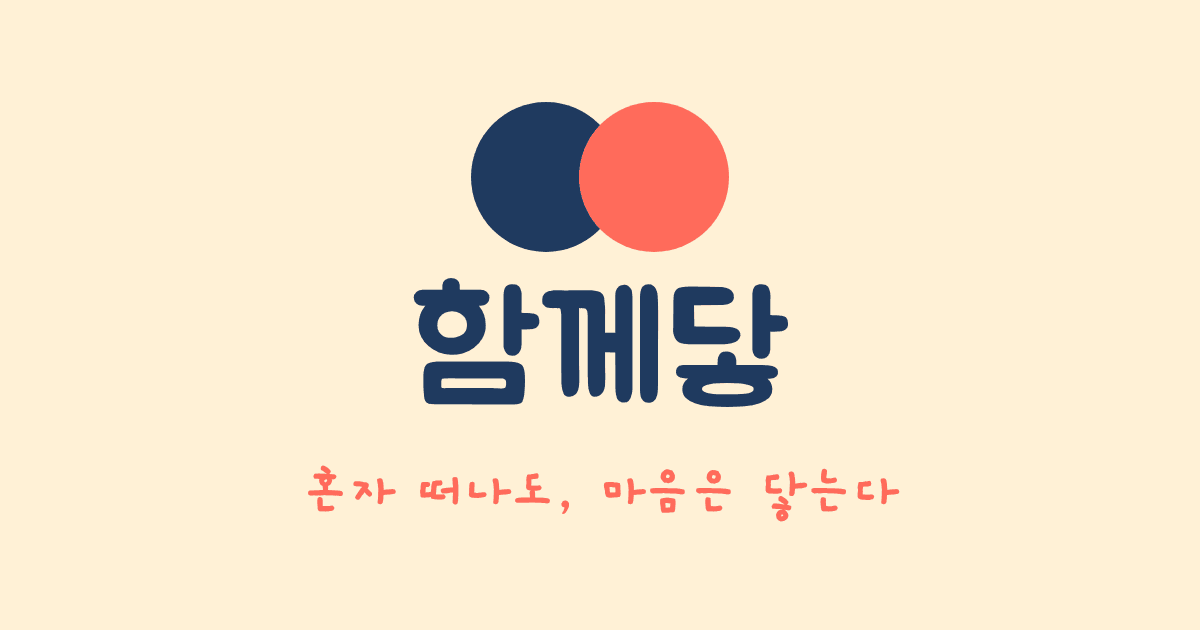
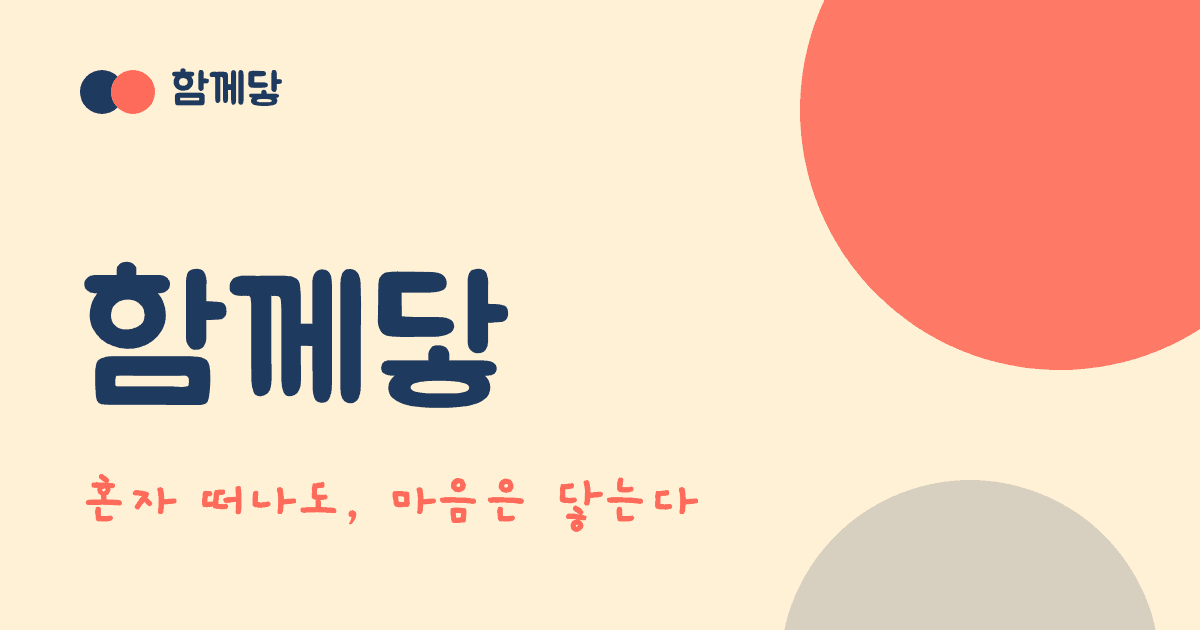
페이지별 공유 이미지 생성 및 연결
Claude-Session: https://claude.ai/code/session_01ESWy9A2QB4VcRDNmvhU2tg

diff --git a/outputs/homepage/trips.html b/outputs/homepage/trips.html
@@ -12,13 +12,13 @@
   <meta property="og:title" content="여행 신청 | 함께닿">
   <meta property="og:description" content="함께닿의 진행 중인 여행, 오픈 예정 여행, 진행했던 여행을 확인하세요.">
   <meta property="og:url" content="https://hamkkedat-homepage.vercel.app/trips.html">
-  <meta property="og:image" content="https://hamkkedat-homepage.vercel.app/og-image.png">
+  <meta property="og:image" content="https://hamkkedat-homepage.vercel.app/og-trips.png">
   <meta property="og:image:width" content="1200">
   <meta property="og:image:height" content="630">
   <meta name="twitter:card" content="summary_large_image">
   <meta name="twitter:title" content="여행 신청 | 함께닿">
   <meta name="twitter:description" content="함께닿의 진행 중인 여행, 오픈 예정 여행, 진행했던 여행을 확인하세요.">
-  <meta name="twitter:image" content="https://hamkkedat-homepage.vercel.app/og-image.png">
+  <meta name="twitter:image" content="https://hamkkedat-homepage.vercel.app/og-trips.png">
   <link rel="preconnect" href="https://fonts.googleapis.com">
   <link rel="preconnect" href="https://fonts.gstatic.com" crossorigin>
   <link href="https://fonts.googleapis.com/css2?family=Gaegu:wght@700&family=Jua&family=Noto+Sans+KR:wght@400;500&display=swap" rel="stylesheet">

diff --git a/outputs/homepage/community.html b/outputs/homepage/community.html
@@ -12,13 +12,13 @@
   <meta property="og:title" content="커뮤니티 | 함께닿">
   <meta property="og:description" content="이벤트, 자주 묻는 질문, 상품 제안을 한곳에서 확인하세요.">
   <meta property="og:url" content="https://hamkkedat-homepage.vercel.app/community.html">
-  <meta property="og:image" content="https://hamkkedat-homepage.vercel.app/og-image.png">
+  <meta property="og:image" content="https://hamkkedat-homepage.vercel.app/og-community.png">
   <meta property="og:image:width" content="1200">
   <meta property="og:image:height" content="630">
   <meta name="twitter:card" content="summary_large_image">
   <meta name="twitter:title" content="커뮤니티 | 함께닿">
   <meta name="twitter:description" content="이벤트, 자주 묻는 질문, 상품 제안을 한곳에서 확인하세요.">
-  <meta name="twitter:image" content="https://hamkkedat-homepage.vercel.app/og-image.png">
+  <meta name="twitter:image" content="https://hamkkedat-homepage.vercel.app/og-community.png">
   <link rel="preconnect" href="https://fonts.googleapis.com">
   <link rel="preconnect" href="https://fonts.gstatic.com" crossorigin>
   <link href="https://fonts.googleapis.com/css2?family=Gaegu:wght@700&family=Jua&family=Noto+Sans+KR:wght@400;500&display=swap" rel="stylesheet">

diff --git a/outputs/homepage/reviews.html b/outputs/homepage/reviews.html
@@ -12,13 +12,13 @@
   <meta property="og:title" content="여행 후기 | 함께닿">
   <meta property="og:description" content="함께닿 여행을 다녀온 사람들의 후기를 모았어요.">
   <meta property="og:url" content="https://hamkkedat-homepage.vercel.app/reviews.html">
-  <meta property="og:image" content="https://hamkkedat-homepage.vercel.app/og-image.png">
+  <meta property="og:image" content="https://hamkkedat-homepage.vercel.app/og-reviews.png">
   <meta property="og:image:width" content="1200">
   <meta property="og:image:height" content="630">
   <meta name="twitter:card" content="summary_large_image">
   <meta name="twitter:title" content="여행 후기 | 함께닿">
   <meta name="twitter:description" content="함께닿 여행을 다녀온 사람들의 후기를 모았어요.">
-  <meta name="twitter:image" content="https://hamkkedat-homepage.vercel.app/og-image.png">
+  <meta name="twitter:image" content="https://hamkkedat-homepage.vercel.app/og-reviews.png">
   <link rel="preconnect" href="https://fonts.googleapis.com">
   <link rel="preconnect" href="https://fonts.gstatic.com" crossorigin>
   <link href="https://fonts.googleapis.com/css2?family=Gaegu:wght@700&family=Jua&family=Noto+Sans+KR:wght@400;500&display=swap" rel="stylesheet">

diff --git a/outputs/homepage/contact.html b/outputs/homepage/contact.html
@@ -12,13 +12,13 @@
   <meta property="og:title" content="연락하기 | 함께닿">
   <meta property="og:description" content="문의와 채용공고를 확인하세요.">
   <meta property="og:url" content="https://hamkkedat-homepage.vercel.app/contact.html">
-  <meta property="og:image" content="https://hamkkedat-homepage.vercel.app/og-image.png">
+  <meta property="og:image" content="https://hamkkedat-homepage.vercel.app/og-contact.png">
   <meta property="og:image:width" content="1200">
   <meta property="og:image:height" content="630">
   <meta name="twitter:card" content="summary_large_image">
   <meta name="twitter:title" content="연락하기 | 함께닿">
   <meta name="twitter:description" content="문의와 채용공고를 확인하세요.">
-  <meta name="twitter:image" content="https://hamkkedat-homepage.vercel.app/og-image.png">
+  <meta name="twitter:image" content="https://hamkkedat-homepage.vercel.app/og-contact.png">
   <link rel="preconnect" href="https://fonts.googleapis.com">
   <link rel="preconnect" href="https://fonts.gstatic.com" crossorigin>
   <link href="https://fonts.googleapis.com/css2?family=Gaegu:wght@700&family=Jua&family=Noto+Sans+KR:wght@400;500&display=swap" rel="stylesheet">

diff --git a/outputs/homepage/src/template.html b/outputs/homepage/src/template.html
@@ -12,13 +12,13 @@
   <meta property="og:title" content="{{TITLE}}">
   <meta property="og:description" content="{{DESC}}">
   <meta property="og:url" content="{{URL}}">
-  <meta property="og:image" content="{{SITE_URL}}/og-image.png">
+  <meta property="og:image" content="{{SITE_URL}}/{{OG}}">
   <meta property="og:image:width" content="1200">
   <meta property="og:image:height" content="630">
   <meta name="twitter:card" content="summary_large_image">
   <meta name="twitter:title" content="{{TITLE}}">
   <meta name="twitter:description" content="{{DESC}}">
-  <meta name="twitter:image" content="{{SITE_URL}}/og-image.png">
+  <meta name="twitter:image" content="{{SITE_URL}}/{{OG}}">
   <link rel="preconnect" href="https://fonts.googleapis.com">
   <link rel="preconnect" href="https://fonts.gstatic.com" crossorigin>
   <link href="https://fonts.googleapis.com/css2?family=Gaegu:wght@700&family=Jua&family=Noto+Sans+KR:wght@400;500&display=swap" rel="stylesheet">

diff --git a/outputs/homepage/og.py b/outputs/homepage/og.py
@@ -1,0 +1,65 @@
+"""페이지별 공유 이미지(og-*.png, 1200x630)를 만든다.
+사용법: python3 outputs/homepage/og.py <글꼴 폴더>   (폴더에 Jua-Regular.ttf, Gaegu-Bold.ttf 필요, Google Fonts SIL OFL)
+node + playwright(chromium)가 필요하다. 만든 PNG는 색을 줄여 용량을 작게 저장한다.
+"""
+import json, sys
+from pathlib import Path
+import subprocess, tempfile
+from PIL import Image
+
+out = Path(__file__).resolve().parent
+fonts = Path(sys.argv[1]).resolve()
+ko = json.loads((out / "src/i18n.json").read_text(encoding="utf-8"))["ko"]
+NAVY, CORAL, CREAM = "#1F3A5F", "#FF6B5B", "#FFF1D6"
+
+# 파일명: (큰 제목, 한 줄 설명, 배경, 글자색, 포인트색)
+CARDS = {
+    "og-image": ("함께닿", "혼자 떠나도, 마음은 닿는다", CREAM, NAVY, CORAL),
+    "og-trips": (ko["g_trips"], "새로운 사람들과 떠나는 소셜링 여행", NAVY, CREAM, CORAL),
+    "og-reviews": (ko["g_reviews"], "다녀온 사람들의 진짜 이야기", CORAL, CREAM, NAVY),
+    "og-community": (ko["g_community"], "이벤트 · 자주 묻는 질문 · 상품 제안", CREAM, NAVY, CORAL),
+    "og-contact": (ko["g_contact"], "궁금한 건 언제든 물어보세요", NAVY, CREAM, CORAL),
+}
+
+HTML = """<!doctype html><meta charset="utf-8"><style>
+@font-face{font-family:Jua;src:url('%(f)s/Jua-Regular.ttf')}
+@font-face{font-family:Gaegu;font-weight:700;src:url('%(f)s/Gaegu-Bold.ttf')}
+*{box-sizing:border-box;margin:0}
+body{width:1200px;height:630px;background:%(bg)s;position:relative;overflow:hidden;font-family:Jua}
+.c1,.c2{position:absolute;border-radius:50%%}
+.c1{width:520px;height:520px;right:-120px;top:-150px;background:%(ac)s;opacity:.9}
+.c2{width:380px;height:380px;right:40px;bottom:-230px;background:%(fg)s;opacity:.18}
+.brand{position:absolute;left:80px;top:64px;display:flex;align-items:center;font-size:44px;color:%(fg)s}
+.dots{display:flex;margin-right:16px}.dots i{display:block;width:44px;height:44px;border-radius:50%%}
+.dots i:first-child{background:%(d1)s}.dots i:last-child{background:%(d2)s;margin-left:-13px}
+.main{position:absolute;left:80px;bottom:90px;max-width:900px}
+h1{font-weight:400;font-size:%(size)spx;line-height:1.1;color:%(fg)s}
+p{margin-top:24px;font-family:Gaegu;font-weight:700;font-size:58px;color:%(ac2)s}
+</style><div class="c1"></div><div class="c2"></div>
+<div class="brand"><span class="dots"><i></i><i></i></span>함께닿</div>
+<div class="main"><h1>%(t)s</h1><p>%(s)s</p></div>"""
+
+SHOT = """const {chromium}=require('playwright');(async()=>{
+const b=await chromium.launch({executablePath:'/opt/pw-browsers/chromium'});
+const p=await b.newPage({viewport:{width:1200,height:630}});
+for(const [h,o] of JSON.parse(process.argv[2])){await p.goto('file://'+h);await p.waitForTimeout(400);await p.screenshot({path:o});}
+await b.close();})();"""
+
+with tempfile.TemporaryDirectory() as tmp:
+    jobs = []
+    for name, (t, s, bg, fg, ac) in CARDS.items():
+        dark = bg != CREAM
+        html = HTML % dict(
+            f=fonts.as_uri(), bg=bg, fg=fg, ac=ac, t=t, s=s,
+            size=170 if len(t) <= 4 else 130,
+            d1=CREAM if dark else NAVY, d2=CORAL if bg != CORAL else NAVY,
+            ac2=CREAM if bg == CORAL else CORAL,
+        )
+        h = Path(tmp) / f"{name}.html"
+        h.write_text(html, encoding="utf-8")
+        jobs.append([str(h), str(out / f"{name}.png")])
+    (Path(tmp) / "shot.js").write_text(SHOT)
+    subprocess.run(["node", str(Path(tmp) / "shot.js"), json.dumps(jobs)], check=True, env={**__import__("os").environ, "NODE_PATH": subprocess.check_output(["npm", "root", "-g"], text=True).strip()})
+for _, o in jobs:
+    Image.open(o).convert("RGB").quantize(colors=16, dither=Image.NONE).save(o, optimize=True)
+    print(Path(o).name, Path(o).stat().st_size)

diff --git a/outputs/homepage/build.py b/outputs/homepage/build.py
@@ -64,6 +64,7 @@ for page, group in PAGES.items():
         .replace("{{DESC}}", ko[f"d_{page}"])
         .replace("{{PAGE}}", page)
         .replace("{{URL}}", SITE_URL + ("/" if page == "index" else f"/{page}.html"))
+        .replace("{{OG}}", "og-image.png" if page == "index" else f"og-{page}.png")
         .replace("{{SITE_URL}}", SITE_URL)
     )
     (out / f"{page}.html").write_text(html, encoding="utf-8")

diff --git a/log.md b/log.md
@@ -21,3 +21,4 @@
 | 2026-10-22 | 홈페이지 2단계: 여행 목록·신청, 문의(+접수 메일), 상품 제안, 후기(승인 후 공개·사진), 내 신청 내역 | Supabase에 trips·trip_applications·inquiries·suggestions·reviews 표와 사진 저장소 적용(outputs/homepage-schema.sql), 권한 시험·화면 시험 통과, 정원 초과 DB 차단은 선택 SQL로 남김, 참고 링크(하나투어)는 접속 불가로 미확인, 배포는 미진행 |
 | 2026-10-22 | 홈페이지 3단계: 나이스페이먼츠 결제 기능(테스트 키 없이 기능만) | payments 표 적용, 서버 함수 3개(pay-prepare·pay-return·_lib)와 결제창 연동 pay.js 작성, 나이스 공식 매뉴얼 기준(서버 승인·서명 검증·망취소), 가짜 서버로 시험 통과, 실제 결제는 테스트 키·service_role 키 필요 |
 | 2026-10-22 | 홈페이지 Vercel 배포 | https://hamkkedat-homepage.vercel.app 배포 완료(READY, 정적 파일·서버 함수 3개 확인). 단, 공유 이미지(og-image.png)는 올리는 중 깨져 원본과 다름 → 대시보드/CLI/Git 연동으로 재업로드 필요. 환경변수(service_role·나이스·Resend 키)는 직접 등록 필요 |
+| 2026-10-22 | 홈페이지 UI/UX 개선 1단계: 페이지별 공유 이미지 | 페이지마다 다른 공유 이미지 5종(og-image·trips·reviews·community·contact, 브랜드 색·글꼴) 생성(og.py), build.py가 페이지별로 연결, 배포는 미진행(이미지 업로드 필요) |
